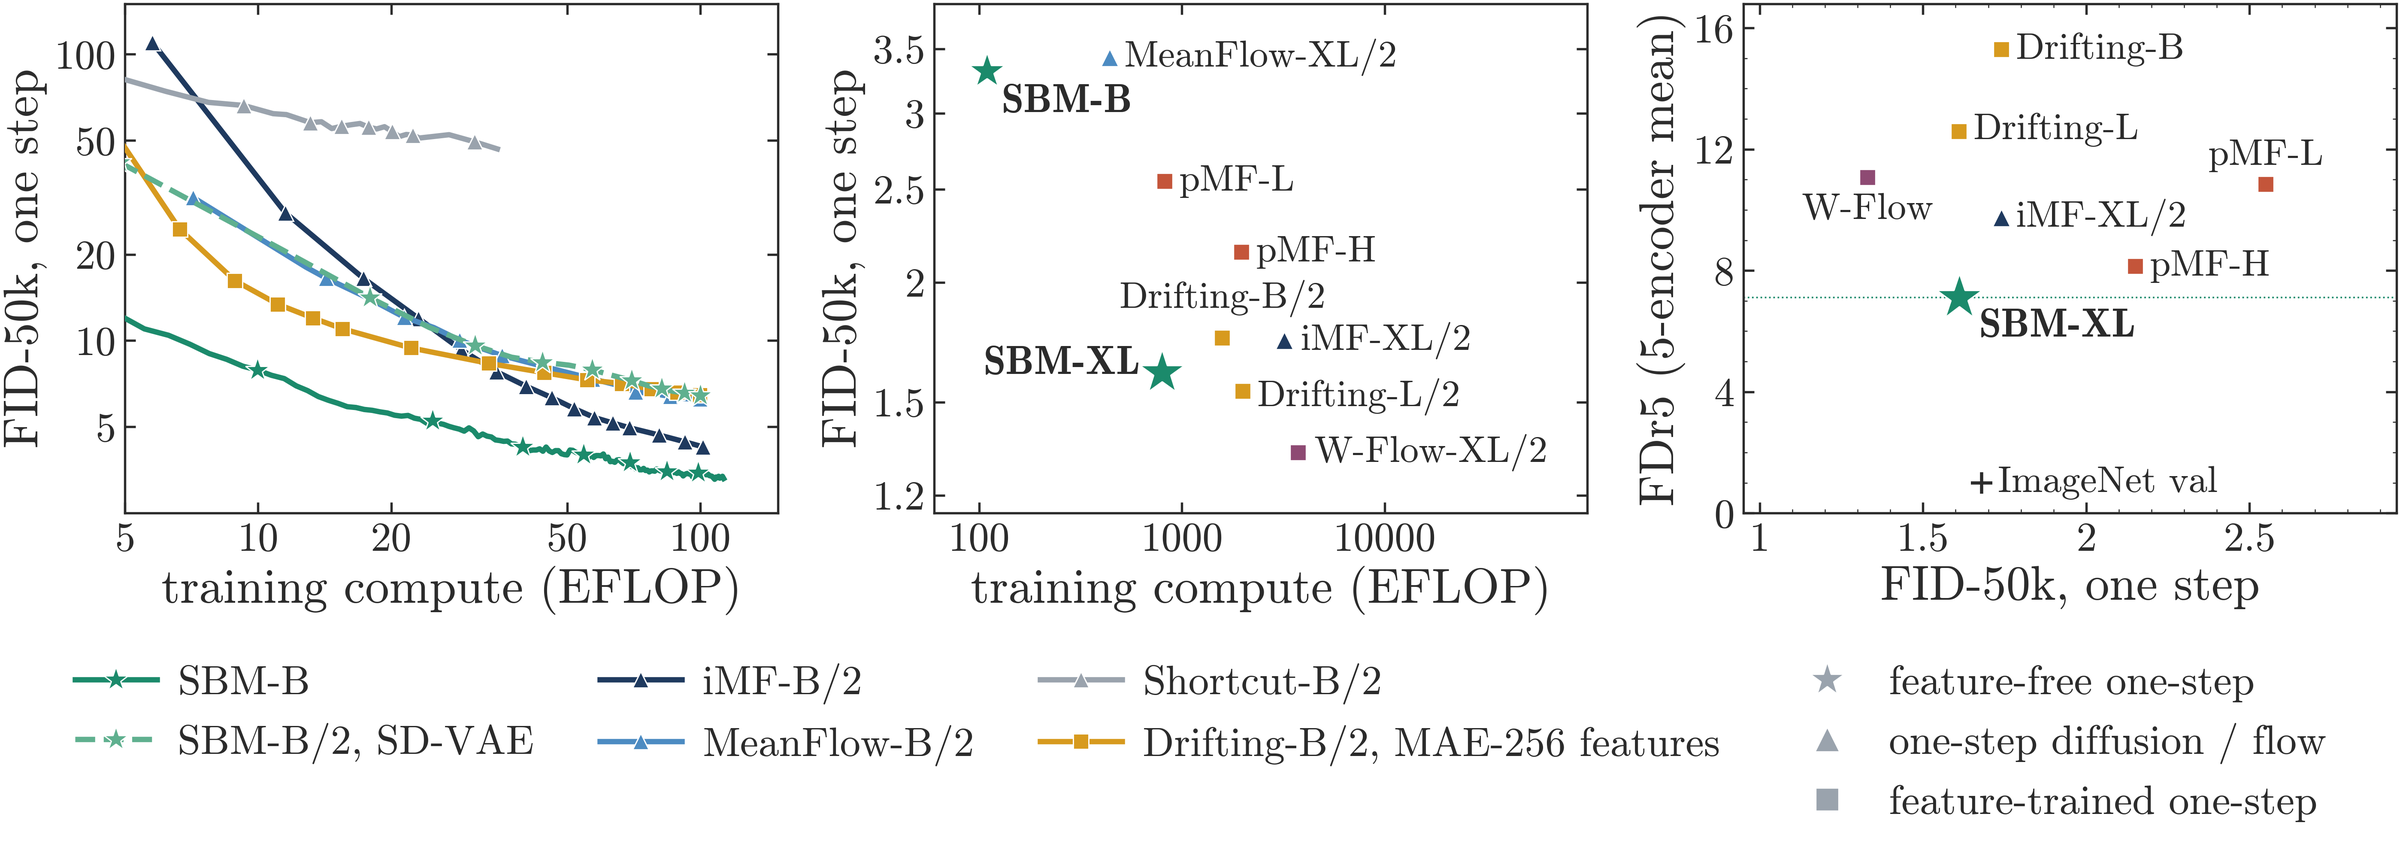
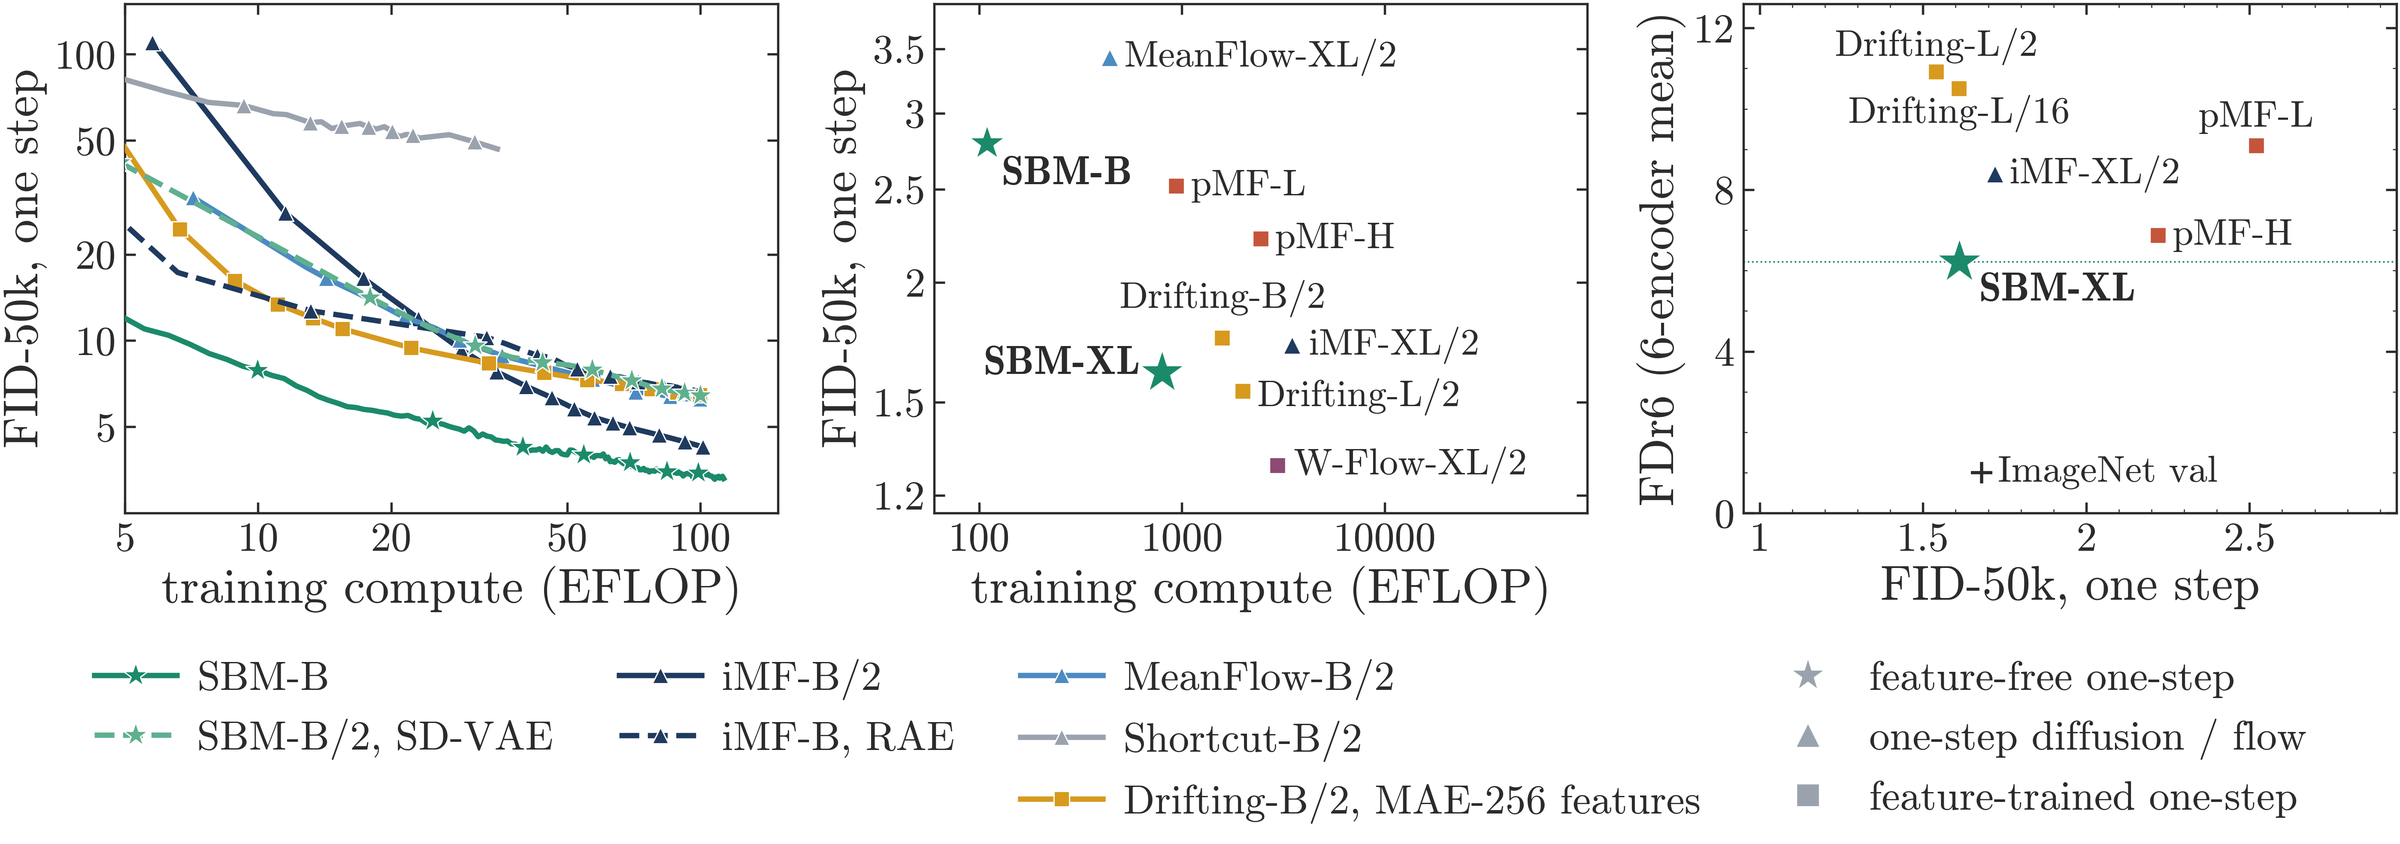
projects/sbm: Michael S. Albergo; results trimmed to the three-panel figure, GenEval and looping robot rollouts (animated WebP)

diff --git a/projects/sbm/index.html b/projects/sbm/index.html
@@ -8,7 +8,7 @@
   <link rel="icon" href="/ulrik-unneberg-vv-logo-verdigris/favicon.svg" type="image/svg+xml">
   <link rel="apple-touch-icon" href="/ulrik-unneberg-vv-logo-verdigris/apple-touch-icon.png">
   <meta name="description" content="Project page for Scalable Beckmann Maps (SBM): guidance and a training recipe for one-step Beckmann transport maps. One-step ImageNet 256x256 FID 1.6, GenEval 0.86 and world models that beat DriftWorld, with no teacher and no feature loss." />
-  <link rel="stylesheet" href="css/style.css?v=2" />
+  <link rel="stylesheet" href="css/style.css?v=3" />
   <link rel="preload" as="font" type="font/woff" href="assets/fonts/lmroman10-regular.woff" crossorigin />
 </head>
 <body>
@@ -20,7 +20,7 @@
     <p class="tagline">One network evaluation per sample. Trained from scratch. No teacher, no feature network, and guidance built into training.</p>
     <p class="authors">
       <span class="row">Ulrik Unneberg<sup>1,&#8902;</sup>, Shiyi Wang<sup>1,&#8902;</sup>, Lee Cheuk-Kit<sup>1</sup>, Felix Berg<sup>2</sup></span>
-      <span class="row">Boris Kozinsky<sup>1</sup>, Yilun Du<sup>1</sup>, Michael Albergo<sup>1</sup>, Eric Vanden-Eijnden<sup>3,4</sup></span>
+      <span class="row">Boris Kozinsky<sup>1</sup>, Yilun Du<sup>1</sup>, Michael S. Albergo<sup>1</sup>, Eric Vanden-Eijnden<sup>3,4</sup></span>
     </p>
     <p class="affil"><sup>1</sup>Harvard University, <sup>2</sup>Imperial College London, <sup>3</sup>New York University, <sup>4</sup>Capital Fund Management</p>
     <p class="contrib">Preprint, 2026. <sup>&#8902;</sup>Core contributors.</p>
@@ -240,27 +240,32 @@ sample:  x = T(x0, c)                                               # one networ
     <p class="eyebrow">Results</p>
     <h2>Three tasks, one network call</h2>
     <figure class="fig">
-      <img src="assets/fig4_imagenet.png" alt="Three panels: FID against training compute during pretraining at base size; final one-step FID against training compute for published models; FDr5 against FID" loading="lazy" decoding="async" />
-      <figcaption class="cap"><b>ImageNet 256&times;256.</b> Left: at base size SBM is ahead of every baseline at every epoch and passes BTM-XL/2&rsquo;s final FID within ten epochs. Centre: SBM-B and SBM-XL sit on the compute&ndash;FID front; SBM-XL reaches 1.61 at 800 EFLOP where iMF-XL/2 reports 1.72 at 3,200. Right: the semantic Fr&eacute;chet distances agree.</figcaption>
+      <img src="assets/fig4_imagenet.png" alt="Three panels: FID against training compute during pretraining at base size; final one-step FID against training compute for published models; FDr6 against FID" loading="lazy" decoding="async" />
+      <figcaption class="cap"><b>ImageNet 256&times;256.</b> Left: at base size SBM is ahead of every baseline at every epoch and passes BTM-XL/2&rsquo;s final FID within ten epochs. Centre: SBM-B and SBM-XL sit on the compute&ndash;FID front; SBM-XL reaches 1.61 at 800 EFLOP where iMF-XL/2 reports 1.72 at 3,200. Right: the six-encoder Fr&eacute;chet distance agrees.</figcaption>
     </figure>
-    <figure class="fig">
-      <img src="assets/fig2_btm_vs_sbm.png" alt="Four panels: FID against training compute for BTM and SBM at base size; per-class separation of generated versus real class means; histogram of within-class spread ratios; precision-recall curves against the read-time label scale" loading="lazy" decoding="async" />
-      <figcaption class="cap"><b>SBM against native BTM</b>, same network, latent, data and sampler. SBM reads at ten epochs what BTM has not reached after a hundred (9.3 against 51 at 100 epochs), its class means and within-class spreads match the data, and its precision&ndash;recall curve lies above BTM&rsquo;s at every recall.</figcaption>
+    <figure class="fig medium">
+      <img src="assets/fig6_geneval.png" alt="GenEval against inference compute per image and against training compute: SBM-B and SBM-XL are the only one-step points" loading="lazy" decoding="async" />
+      <figcaption class="cap"><b>Text to image.</b> GenEval against inference and training compute. SBM-XL scores 0.856 with one network evaluation; the other methods use 4 to 200 per image.</figcaption>
     </figure>
-    <div class="two-figs">
-      <figure class="fig">
-        <img src="assets/fig6_geneval.png" alt="GenEval against inference compute per image and against training compute: SBM-B and SBM-XL are the only one-step points" loading="lazy" decoding="async" />
-        <figcaption class="cap"><b>Text to image.</b> GenEval against inference and training compute. SBM is the only one-step method; the others use 4 to 200 network evaluations per image.</figcaption>
+    <p class="prose" style="margin-top:1.6rem"><b class="sf">World models.</b> Given four frames and their actions, the map predicts the next frame in one evaluation, trained without guidance or a feature loss. The first eight generated frames are scored against the ground truth; after the tick the model runs on its own frames.</p>
+    <div class="loops">
+      <figure class="loop wide">
+        <img src="assets/rollouts/bridge_000000027.webp" alt="Bridge-V2 rollout, move the silver pan to the right side of the table: ground truth, DriftWorld and SBM frames side by side, looping" loading="lazy" decoding="async" />
+        <figcaption class="cap"><b>Bridge-V2.</b> &ldquo;Move the silver pan to the right side of the table.&rdquo; DriftWorld&rsquo;s arm and pan dissolve once it runs on its own frames; SBM moves the pan.</figcaption>
       </figure>
-      <figure class="fig">
-        <img src="assets/fig7_ablations.png" alt="Left: FID at 20 epochs as each recipe change is added, from the original BTM configuration at 75.6 to SBM at 20.7. Right: the FID change when each component is removed from the full recipe" loading="lazy" decoding="async" />
-        <figcaption class="cap"><b>From BTM to SBM.</b> Guidance is the change that matters: it takes the map from 46.7 to 20.7 FID at the same epoch budget. Removing any other component of the recipe costs less than eight points.</figcaption>
+      <figure class="loop wide">
+        <img src="assets/rollouts/bridge_000000006.webp" alt="Bridge-V2 rollout, bring the violet cloth to the front edge of the table: ground truth, DriftWorld and SBM frames side by side, looping" loading="lazy" decoding="async" />
+        <figcaption class="cap"><b>Bridge-V2.</b> &ldquo;Bring the violet cloth to the front edge of the table.&rdquo; The cloth smears under DriftWorld and stays a cloth under SBM.</figcaption>
+      </figure>
+      <figure class="loop">
+        <img src="assets/rollouts/rt1_000000008.webp" alt="RT-1 rollout, pick sponge from top drawer and place on counter: ground truth and SBM frames side by side, looping" loading="lazy" decoding="async" />
+        <figcaption class="cap"><b>RT-1.</b> &ldquo;Pick sponge from top drawer and place on counter.&rdquo; SBM lifts the sponge and sets it on the counter, 43 frames on its own.</figcaption>
+      </figure>
+      <figure class="loop">
+        <img src="assets/rollouts/rt1_000000007.webp" alt="RT-1 rollout, open middle drawer: ground truth and SBM frames side by side, looping" loading="lazy" decoding="async" />
+        <figcaption class="cap"><b>RT-1.</b> &ldquo;Open middle drawer.&rdquo; The drawer opens and stays open through 47 generated frames.</figcaption>
       </figure>
     </div>
-    <figure class="fig medium">
-      <img src="assets/fig5_world_models.jpg" alt="Rollouts on Bridge-V2 and RT-1: ground truth, DriftWorld and SBM frames over time" loading="lazy" decoding="async" />
-      <figcaption class="cap"><b>World models.</b> Bridge-V2 (left) and RT-1 (right) rollouts, trained without guidance or a feature loss. Past the eight scored frames the model runs on its own frames: DriftWorld&rsquo;s arm dissolves, SBM keeps the arm and the scene intact, at 2.4 to 5.4&times; less training compute.</figcaption>
-    </figure>
     <details class="more">
       <summary>Full tables</summary>
       <p class="cap above"><span class="lab">Table 1</span> <b>ImageNet 256&times;256.</b> Params: generator + autoencoder decoder. Auxiliary: an additional network used in training. Guidance: CFG on velocity predictions, or guidance built from data without a velocity.</p>
@@ -339,10 +344,6 @@ sample:  x = T(x0, c)                                               # one networ
           </div>
         </div>
       </div>
-      <figure class="fig">
-        <img src="assets/fig3_btm_vs_sbm_samples.jpg" alt="Two rows of five images, daisy, lion, bald eagle, bubble and pirate ship, generated by BTM (top) and SBM (bottom)" loading="lazy" decoding="async" />
-        <figcaption class="cap"><b>BTM (top) against SBM (bottom)</b> for daisy, lion, bald eagle, bubble and pirate ship; the best-looking of 50 samples from each model.</figcaption>
-      </figure>
     </details>
   </section>
 
@@ -350,7 +351,7 @@ sample:  x = T(x0, c)                                               # one networ
     <p class="eyebrow">Citation</p>
 <pre class="bib">@article{unneberg2026sbm,
   title   = {Scalable Beckmann Maps improve one-step generation},
-  author  = {Unneberg, Ulrik and Wang, Shiyi and Lee, Cheuk-Kit and Berg, Felix and Kozinsky, Boris and Du, Yilun and Albergo, Michael and Vanden-Eijnden, Eric},
+  author  = {Unneberg, Ulrik and Wang, Shiyi and Lee, Cheuk-Kit and Berg, Felix and Kozinsky, Boris and Du, Yilun and Albergo, Michael S. and Vanden-Eijnden, Eric},
   journal = {arXiv preprint},
   year    = {2026}
 }</pre>

diff --git a/projects/sbm/css/style.css b/projects/sbm/css/style.css
@@ -483,3 +483,11 @@ details.more .cap { text-align: left; hyphens: manual; }
   .reveal.in { opacity: 1; transform: none; }
 }
 #cite .bib { margin-top: 0.4rem; }
+
+/* looping world-model rollouts (animated WebP) */
+.loops { display: grid; grid-template-columns: 1fr 1fr; gap: 0.4rem 24px; align-items: start; margin-top: 0.6rem; }
+.loops .loop { margin: 0.4rem 0 0.8rem; min-width: 0; }
+.loops .loop.wide { grid-column: 1 / -1; }
+.loops .loop img { display: block; width: 100%; max-width: 804px; margin: 0 auto; border: 1px solid var(--line); border-radius: 6px; background: #fff; }
+.loops .loop .cap { margin-top: 0.45rem; }
+@media (max-width: 760px) { .loops { grid-template-columns: 1fr; } }
